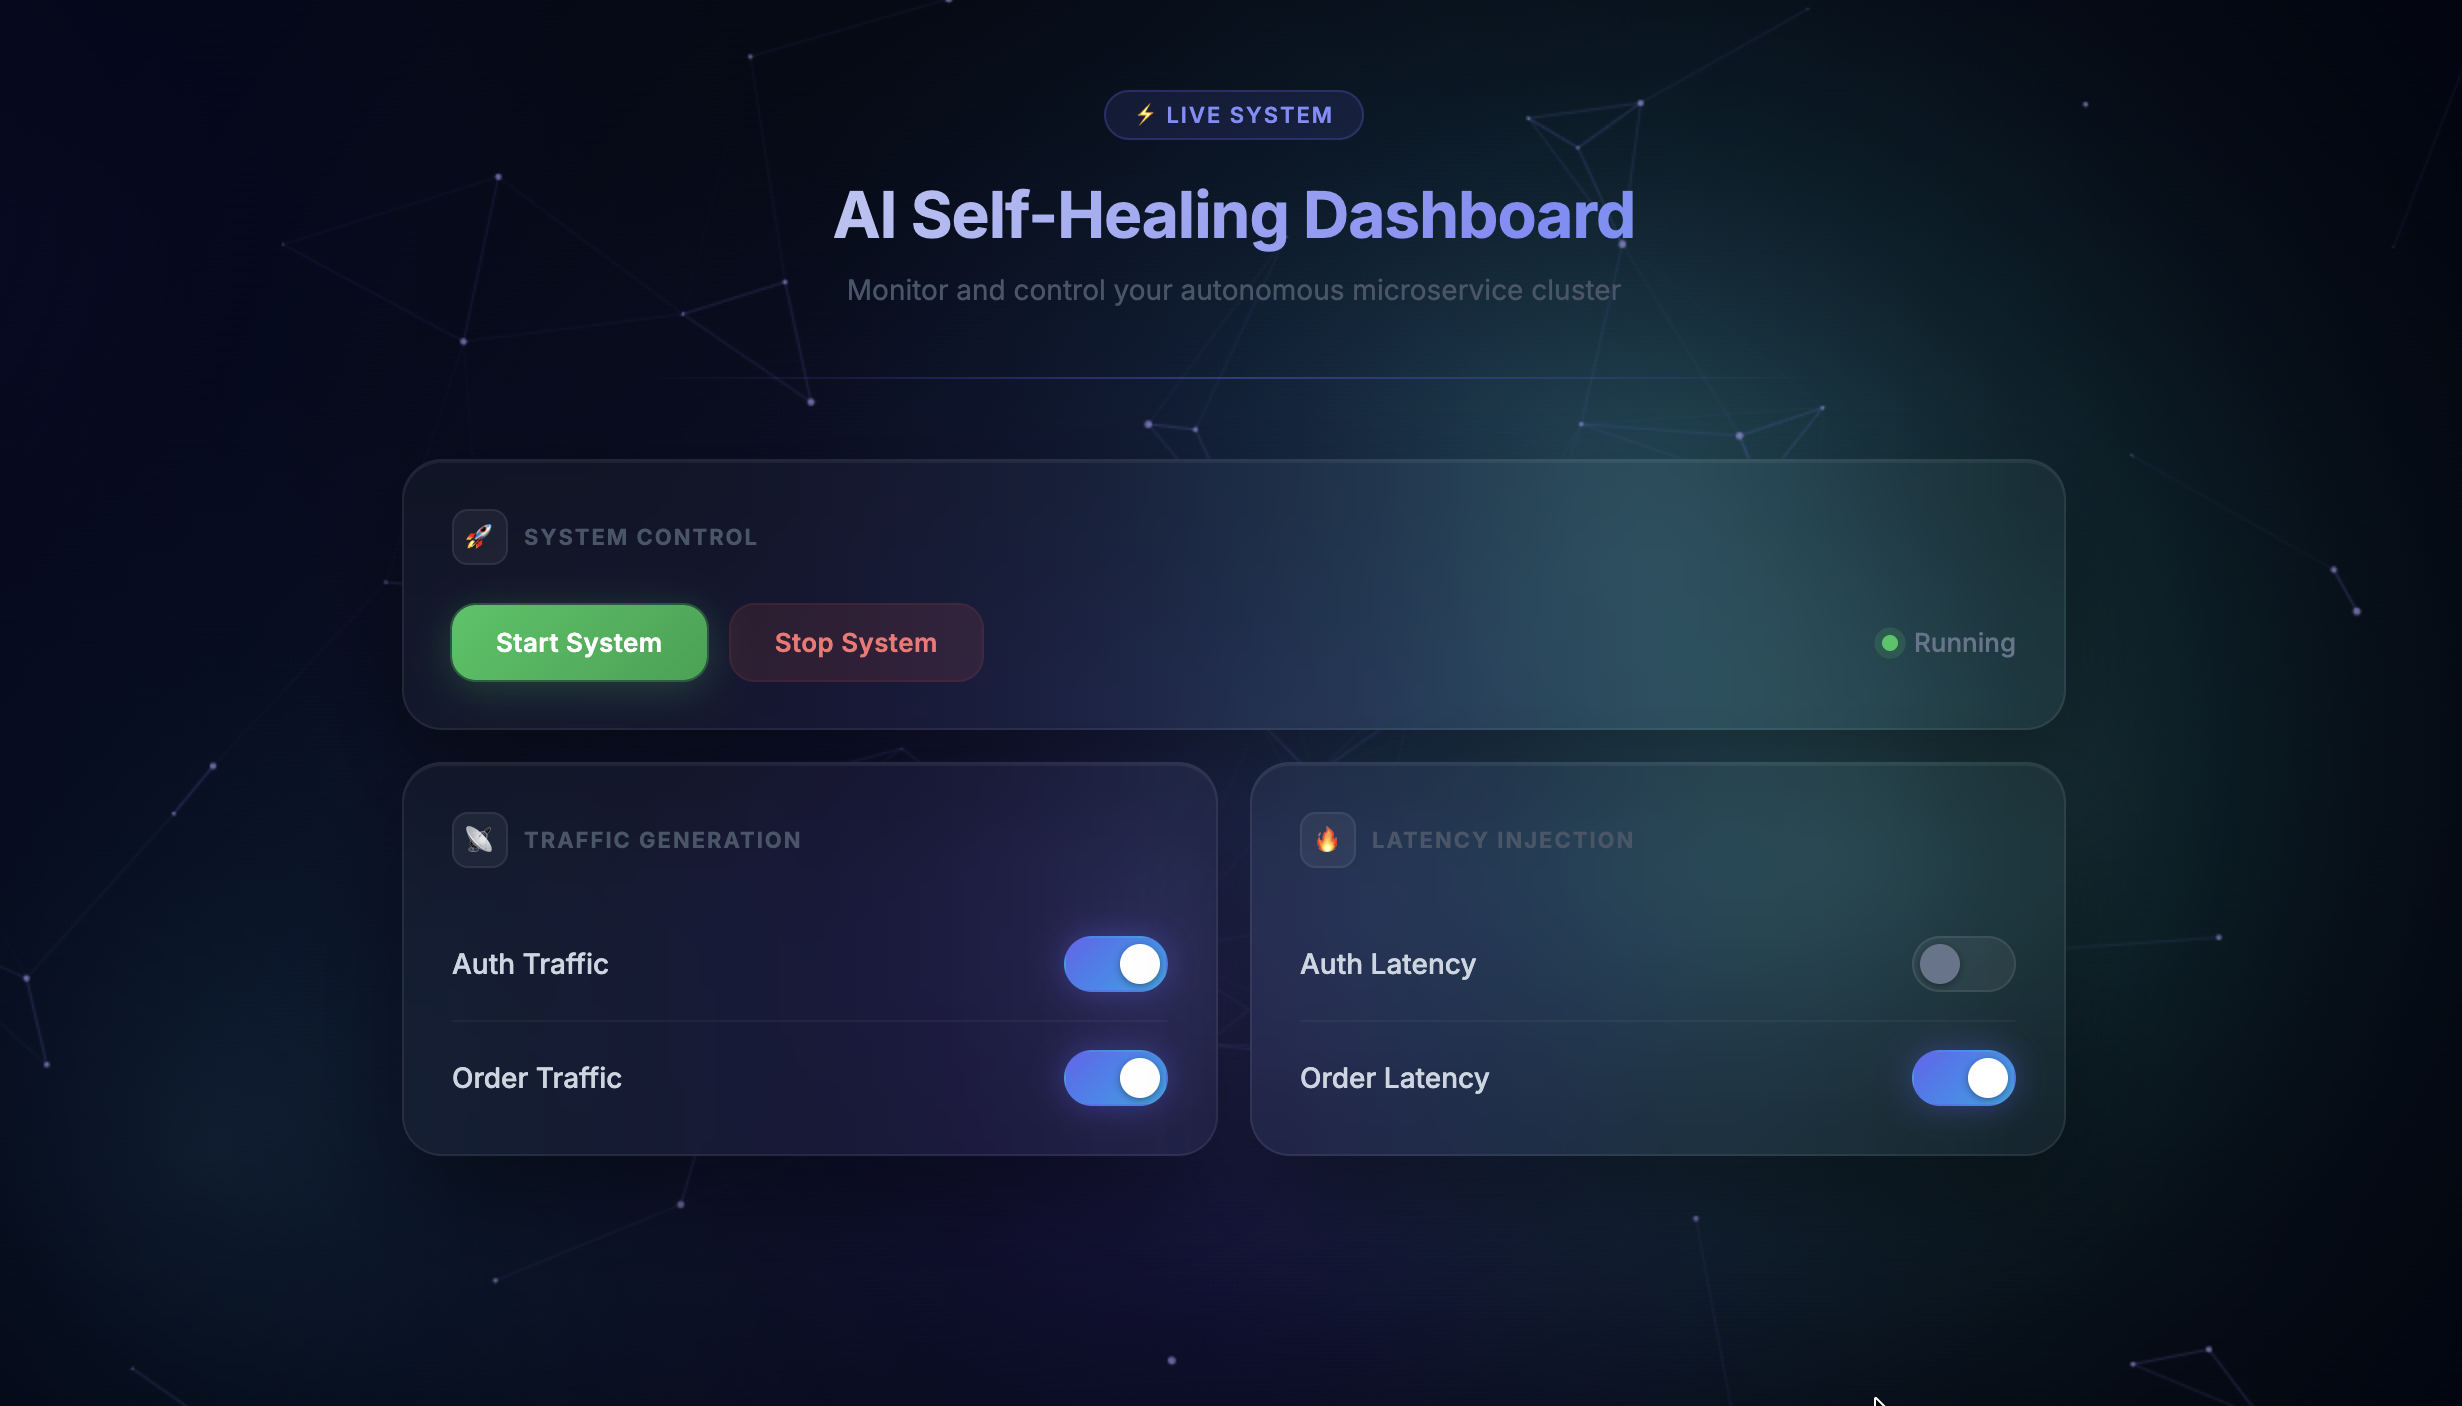
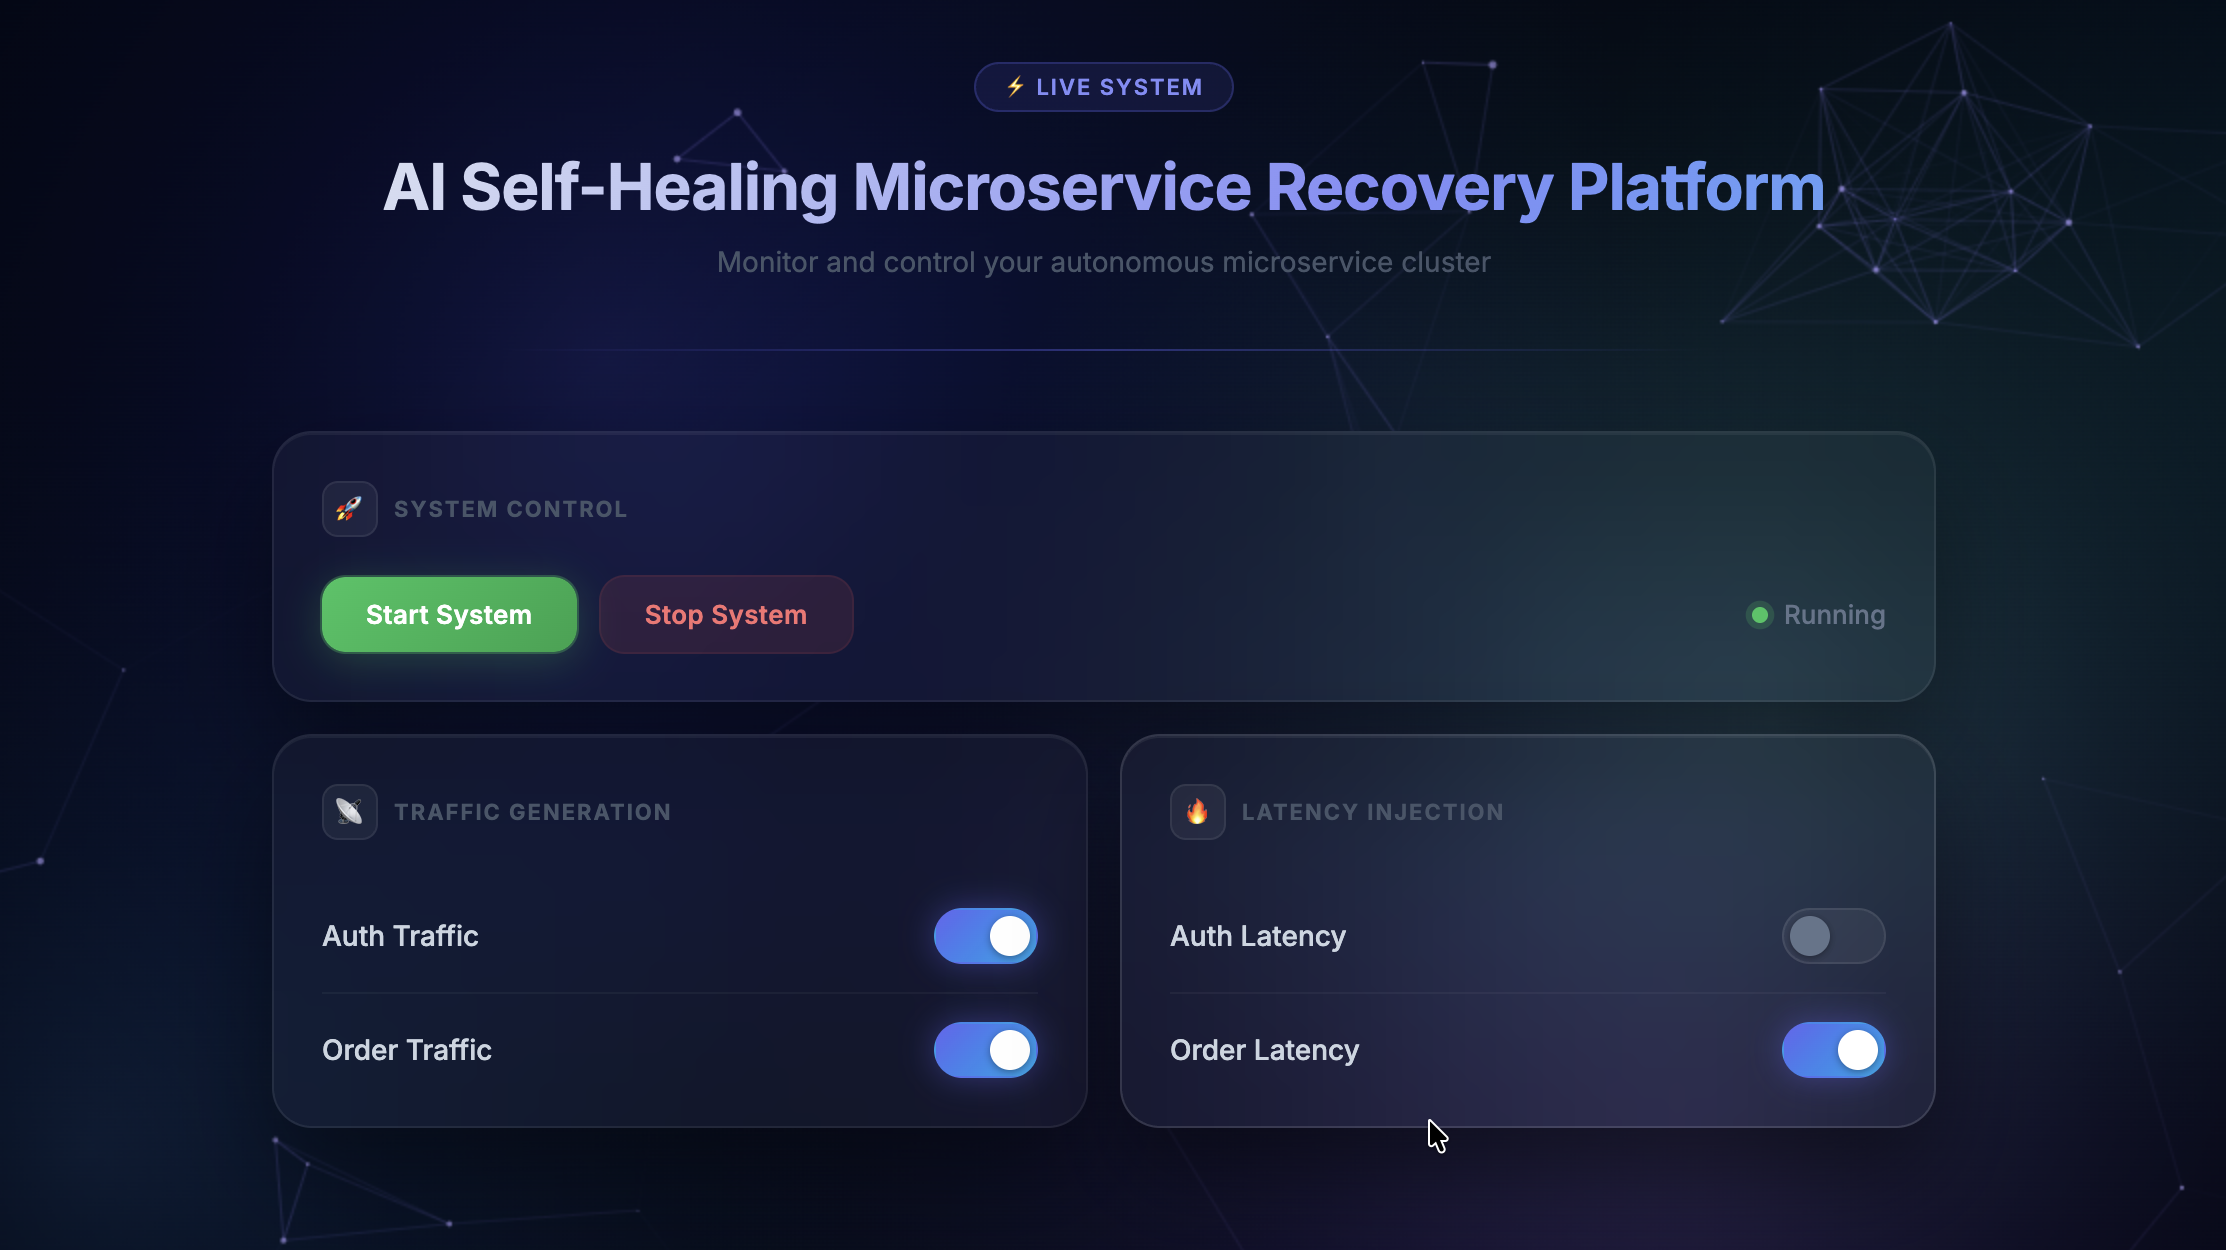
Updated name

diff --git a/control-panel/index.html b/control-panel/index.html
@@ -3,7 +3,7 @@
 <head>
 <meta charset="UTF-8">
 <meta name="viewport" content="width=device-width, initial-scale=1.0">
-<title>AI Self-Healing System Dashboard</title>
+<title>AI Self-Healing Microservice Recovery Platform</title>
 <link href="https://fonts.googleapis.com/css2?family=Inter:wght@400;500;600;700&display=swap" rel="stylesheet">
 
 <style>
@@ -280,7 +280,7 @@ input:checked + .slider::before {
 
 <header>
   <div class="header-badge">⚡ Live System</div>
-  <h1>AI Self-Healing Dashboard</h1>
+  <h1>AI Self-Healing Microservice Recovery Platform</h1>
   <p>Monitor and control your autonomous microservice cluster</p>
 </header>
 

diff --git a/README.md b/README.md
@@ -1,4 +1,4 @@
-# ⚡ AI Self-Healing Microservice Cluster
+# ⚡ AI Self-Healing Microservice Recovery Platform
 
 An AI-powered autonomous system that detects latency anomalies in microservices using machine learning and self-heals in real time — without any human intervention.
 
